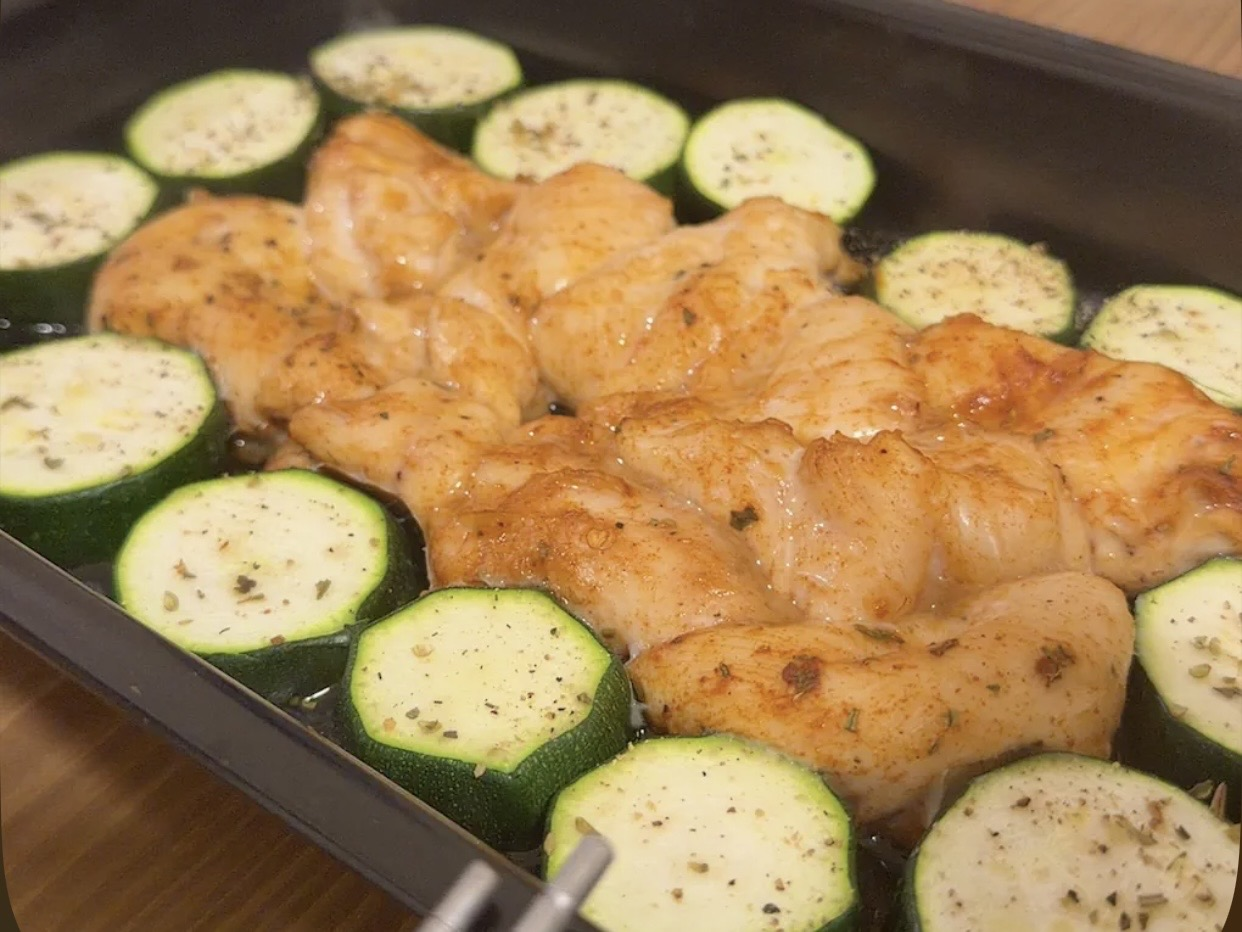
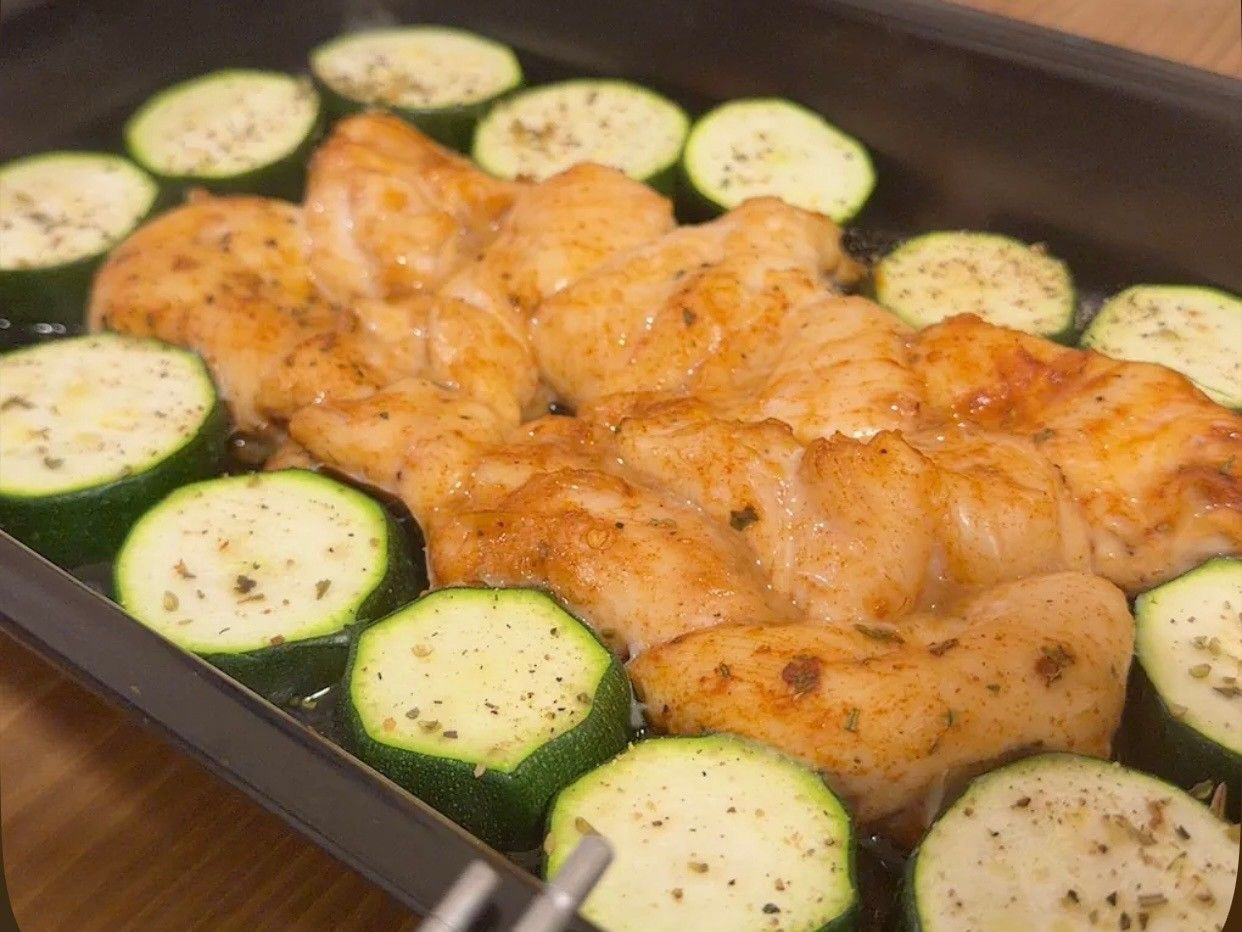
feat: add baked chicken dish

diff --git a/src/content/dishes/baked-chicken/zh.md b/src/content/dishes/baked-chicken/zh.md
@@ -1,0 +1,33 @@
+---
+title: 火烤雞胸肉
+date: 2026-03-21
+stars: 5
+tags: [西式, 主菜]
+cookingTimeMinutes: 20
+servings: 1
+cover: ./cover.jpg
+images: [./photo-2.jpg, ./photo-3.jpg, ./photo-4.jpg, ./photo-5.jpg]
+ingredients:
+  - name: 雞胸肉
+    amount: 250克
+  - name: 鹽
+    amount: 1小匙
+  - name: 黑胡椒
+    amount: 1小匙
+  - name: 煙燻紅椒粉
+    amount: 2小匙
+  - name: 義式香料
+    amount: 1小匙
+draft: false
+---
+
+備註：雞胸肉可替換為雞腿肉、雞里肌肉。
+
+## 🍳 作法
+
+1. 烤箱（氣炸鍋）200度先預熱3分鐘以上。
+2. 將雞肉切塊，建議大小約三指寬、一指厚。
+3. 加入1小匙鹽、1小匙黑胡椒、2小匙紅椒粉、1小匙義式香料（可任意替換成其他你喜歡的香料，若提前醃製風味更佳）。
+4. 將雞肉與香料拌勻，平均鋪在烤盤上，避免彼此黏在一起。
+5. 送入烤箱200度18分鐘，若使用氣炸鍋則200度6分鐘（不同器具的加熱效率常有誤差，建議食用前先切開確認熟度）。
+6. 出爐😋！